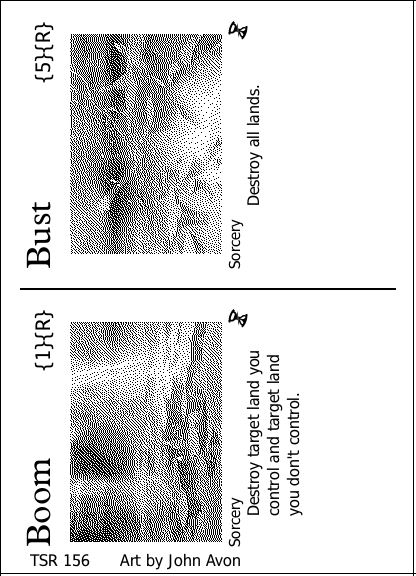
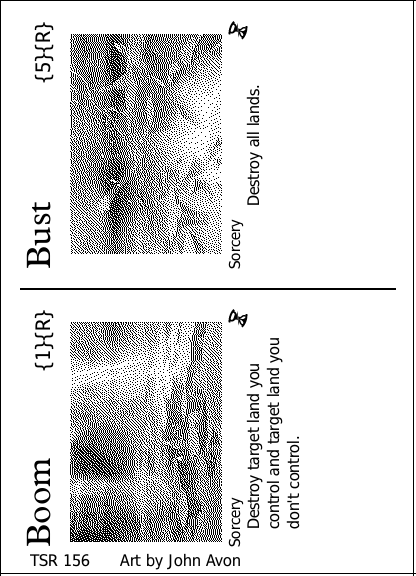
Add Walk-In Closet card images and update layout handling for split cards

Changed region(s): [[0.5938, 0.5938, 0.7188, 0.9375]]

diff --git a/oracle_escpos/src/layout.rs b/oracle_escpos/src/layout.rs
@@ -681,7 +681,7 @@ impl Default for Layout {
                 margin_bottom: 30,
                 font: Font::Sansserif,
                 font_size: fonts.rules,
-                wrap_width: 180,
+                wrap_width: 200,
                 ..Default::default()
             },
 
@@ -689,7 +689,7 @@ impl Default for Layout {
                 margin_bottom: 30,
                 font: Font::Sansserif,
                 font_size: fonts.rules,
-                wrap_width: 180,
+                wrap_width: 200,
                 ..Default::default()
             },
 
@@ -697,7 +697,7 @@ impl Default for Layout {
                 margin_right: 80,
                 font: Font::Sansserif,
                 font_size: fonts.rules,
-                wrap_width: 360,
+                wrap_width: 508,
                 ..Default::default()
             },
 

diff --git a/oracle_escpos/src/tests/test_generate.rs b/oracle_escpos/src/tests/test_generate.rs
@@ -112,6 +112,23 @@ mod tests {
 
     #[test(tokio::test)]
     #[ignore]
+    async fn test_room() -> Result<(), Box<dyn std::error::Error>> {
+        let card = load_card("./tests/walk_in_closet_test_card.json")?;
+
+        let card_type = match card.core.layout {
+            CardLayout::Split => CardType::Split(card),
+            _ => CardType::Regular(card),
+        };
+
+        let print = CardPrint::new(&card_type);
+        print
+            .render(Some(&PathBuf::from("./renders/walk_in_closet_card.png")))
+            .await?;
+        Ok(())
+    }
+
+    #[test(tokio::test)]
+    #[ignore]
     async fn test_lucy_in_the_sky() -> Result<(), Box<dyn std::error::Error>> {
         let card = load_card("./tests/karolina_test_card.json")?;
         let card_type = CardType::Regular(card);

diff --git a/oracle_escpos/src/card/split_element_renderers.rs b/oracle_escpos/src/card/split_element_renderers.rs
@@ -217,6 +217,13 @@ impl ElementRenderer for SplitCardArtRenderer {
             "CardArtRenderer state"
         );
 
+        /* TODO just render a single piece of artwork for Room type cards
+
+        Example: Walk-In Closet // Forgotten Cellar
+        https://cards.scryfall.io/art/front/0/a/0adcd4e5-d542-4293-8774-ace2305ef820.webp?1783909446
+        https://api.scryfall.com/cards/0adcd4e5-d542-4293-8774-ace2305ef820
+        */
+
         let card_art = if let Some(image_uris) = image_uris {
             let client = ScryfallClient::new(Some(SCRYFALL_USER_AGENT))?;
             Some(image_uris.fetch_art(&client).await?.to_vec())
